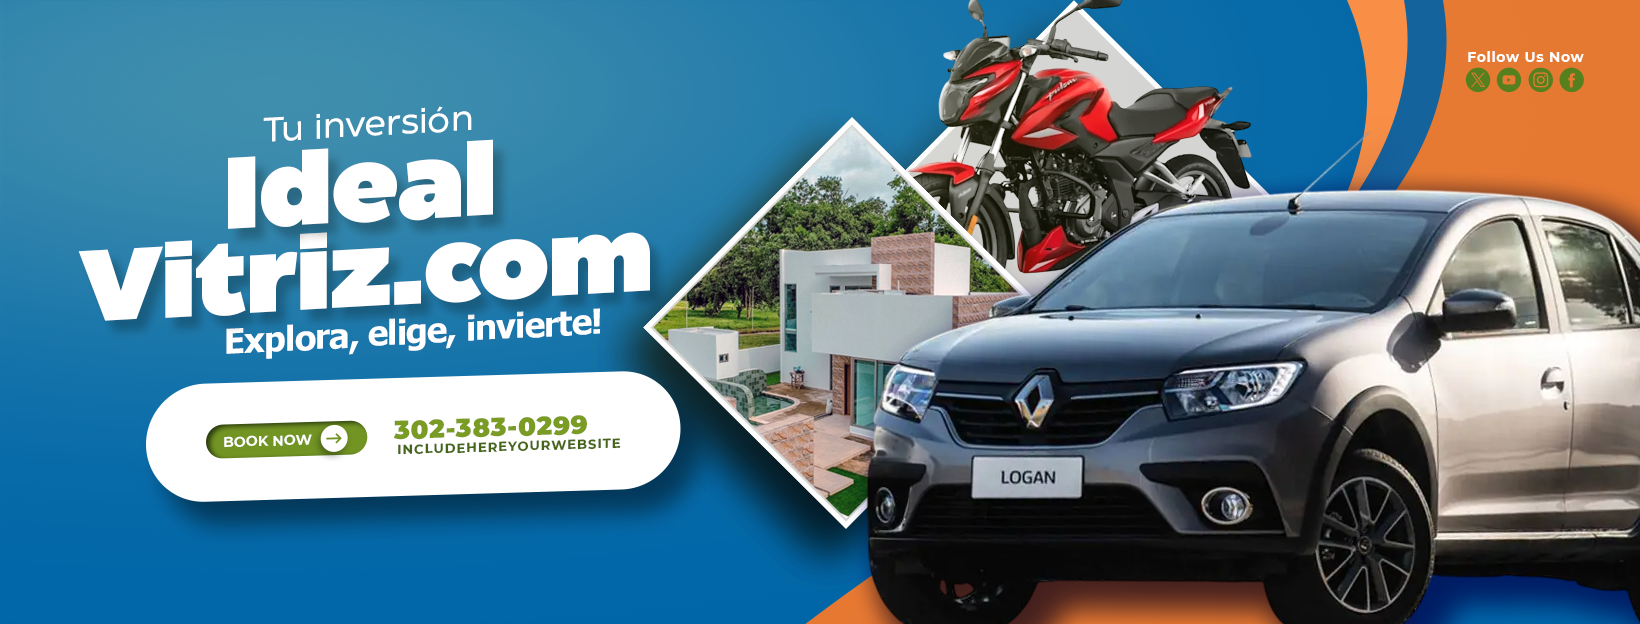
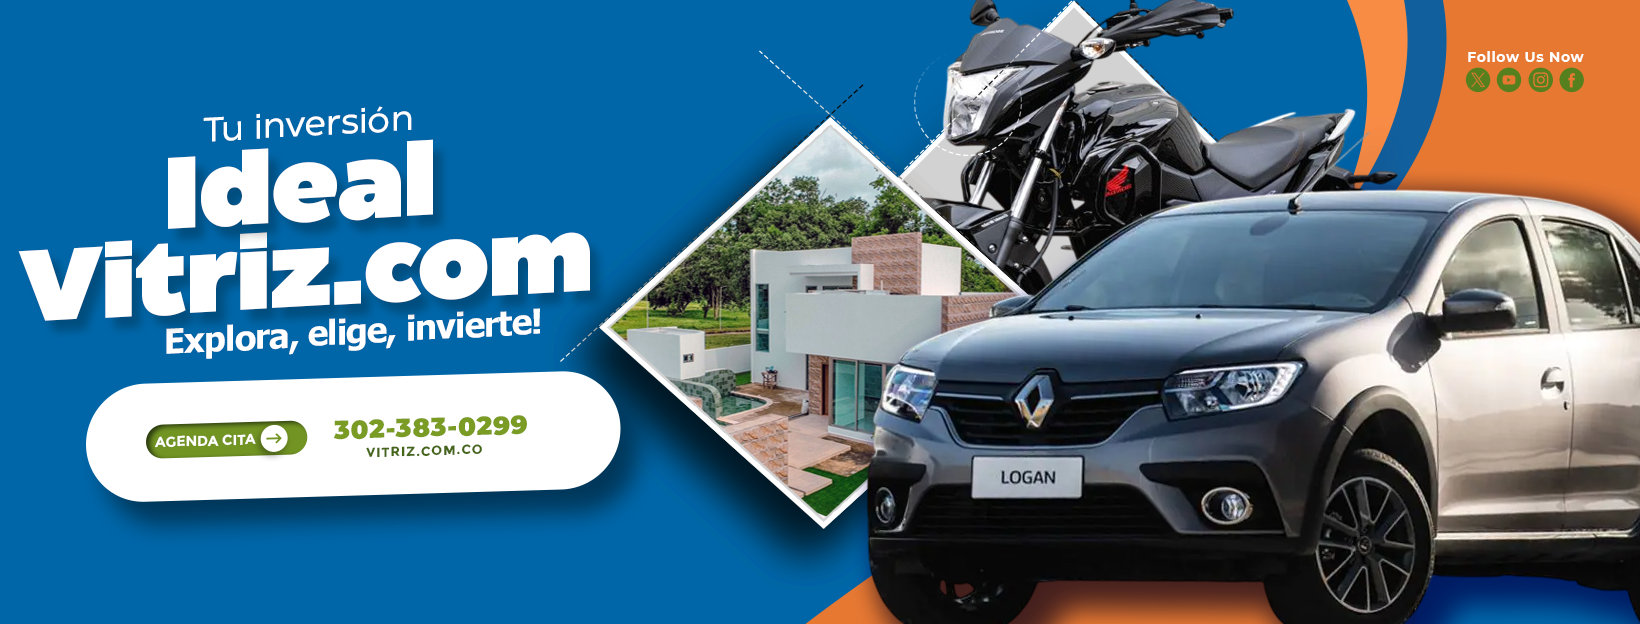
Actualizó marca Vitriz y Hero

diff --git a/index.html b/index.html
@@ -11,6 +11,11 @@
     crossorigin="anonymous"
     referrerpolicy="no-referrer"
     />
+    <link
+      href="https://fonts.googleapis.com/css2?family=Inter:wght@100;400;700;900&display=swap"
+      rel="stylesheet"
+    >
+
     <link rel="stylesheet" href="styles.css" />
     <link rel="stylesheet" href="responsive.css" />
     
@@ -42,14 +47,37 @@
       </div>
     </header>
 
-    <section class="hero-vendi">
+    <section class="hero-vitriz">
       <img src="img/banner1.png" alt="Banner vitriz" class="hero-img" />
+      <!-- Scroll cue -->
+      <a href="#vitrina" class="scroll-cue">
+        <span>Explora propiedades disponibles</span> 
+        <svg viewBox="0 0 24 24" xmlns="http://www.w3.org/2000/svg">
+          <!-- Rombo superior -->
+          <path
+            d="M 12 3 L 15 6 L 12 9 L 9 6 Z"
+            fill="orange"
+            fill-opacity="0.5"
+          />
+          
+          <!-- Flecha inferior, abrazando el rombo -->
+          <polyline
+            points="8 9 12 12 16 9"
+            style="fill:none;
+                  stroke:rgb(255, 165, 0);
+                  stroke-linecap:round;
+                  stroke-linejoin:round;
+                  stroke-width:3;"
+          />
+        </svg>
+      </a>       
+      
     </section>
 
     <div class="adsense-horizontal">
-      <div class="adsense-placeholder vendi-placeholder">
+      <div class="adsense-placeholder vitriz-placeholder">
         <div class="contenido-anuncio">
-          <img src="https://i.postimg.cc/XNPfvqVs/vendi-icono.png" alt="Marca Vendi" />
+          <img src="https://i.postimg.cc/XNPfvqVs/vitriz-icono.png" alt="Marca Vitriz" />
           <p>Espacio publicitario premium. Tu marca podría estar aquí.</p>
           <span class="sello-temporal">728×90 · Visibilidad máxima</span>
         </div>
@@ -108,7 +136,7 @@
         </div>
 
         <!-- 3⃣ Separador comunicativo: minitags -->
-        <section class="minitags-separador" aria-label="Guía editorial de confianza por parte de Vendi">
+        <section class="minitags-separador" aria-label="Guía editorial de confianza por parte de Vitriz">
           
           <h3 class="titulo-minitags">Antes de decidir, Vitriz te guía</h3>
           <div class="minitags-wrapper">                                 
@@ -685,7 +713,7 @@
             </form>
                 
             <div class="adsense-muestra">
-                <img src="https://i.postimg.cc/XNPfvqVs/vendi-icono.png" alt="Logo Vendi" />
+                <img src="https://i.postimg.cc/XNPfvqVs/vitriz-icono.png" alt="Logo Vitriz" />
                 <p>📣 Tu anuncio puede estar aquí</p>
                 <span class="etiqueta-anuncio">300×250 · Recuadro de muestra</span>
             </div>
@@ -693,7 +721,7 @@
           </aside>
 
           <!-- Vitrina derecha: miniaturas -->
-          <section class="vitrina-vendi">
+          <section id="vitrina" class="vitrina-vitriz">
               <div class="grid-miniaturas">
                 
                 <article class="miniatura"                
@@ -1440,7 +1468,7 @@
     </main>
 
     <footer class="footer">
-        © 2025 Vendi · contacto@vendihome.com
+        © 2025 Vitriz · contacto@vitrizhome.com
     </footer>
     <script type="module" src="main.js"></script>
     <script defer src="clampTitulo.js" ></script>

diff --git a/styles.css b/styles.css
@@ -12,6 +12,13 @@
   --radio: 0.75rem;
   --fuente: 'Poppins', sans-serif;
   --sidebar-offset: calc(100.98px + 0.5rem);
+  --acento: var(--verde);
+  --fuente: 'Inter', sans-serif;
+  --amarillo: #ca7c08;
+}
+
+html {
+  scroll-behavior: smooth;
 }
 
 /* 🧠 Estilos base del body */
@@ -122,12 +129,12 @@ body {
   color: #fff;
 }
 .cta-login i {
-  color: #e04502; /* Naranja cálido tipo Vendi */
+  color: #e04502; /* Naranja cálido tipo Vitriz */
   margin-right: 8px;
 }
 
 /* Hero */
-.hero-vendi {
+.hero-vitriz {
   position: relative;
   margin: 1rem;
   height: 560px;
@@ -147,6 +154,39 @@ body {
 }
 
 
+/* Scroll cue */
+.scroll-cue {
+  position: absolute;
+  left: 50%;
+  top: 80%; /* separación desde la base del hero */
+  transform: translateX(-190%);
+  display: flex;
+  flex-direction: column; /* texto arriba, flecha abajo */
+  align-items: center;
+  text-align: center;
+  color: var(--acento);
+  text-decoration: none;
+  font-family: var(--fuente);
+  font-size: 1rem;
+  font-weight: 500;
+  cursor: pointer;
+}
+
+/* SVG */
+.scroll-cue svg {
+  width: 3rem; /* un poco más grande */
+  height: auto;
+}
+
+/* Texto */
+.scroll-cue span {
+  font-family: var(--fuente);
+  font-size: 1rem;
+  font-weight: 700;
+  line-height: 1.2;
+  color: var(--blanco);
+}
+
 /* AdSense */
 
 .adsense-horizontal {
@@ -155,7 +195,7 @@ body {
   text-align: center;
 }
 
-.vendi-placeholder {
+.vitriz-placeholder {
   width: 728px;
   height: 90px;
   border: 2px dashed #ccc;
@@ -834,20 +874,20 @@ aside.sidebar-panel fieldset legend {
 
 
 /* === Vitrina principal de miniaturas === */
-.vitrina-vendi {
+.vitrina-vitriz {
   flex: 1;
   width: 100%;
   box-sizing: border-box;
 }
 
-.vitrina-vendi h2 {
+.vitrina-vitriz h2 {
   font-size: 1.8rem;
   font-weight: 600;
   margin-bottom: 1rem;
   color: var(--oscuro);
 }
 
-/* === Grid responsive de tarjetas Vendi === */
+/* === Grid responsive de tarjetas Vitriz === */
 .grid-miniaturas {
   display: grid;
   grid-template-columns: repeat(3, 1fr);

diff --git a/clampTitulo.js b/clampTitulo.js
@@ -18,7 +18,7 @@ document.querySelectorAll('.titulo').forEach(el => {
 document.addEventListener('DOMContentLoaded', () => {
   // 🔹 BLOQUE 1: Referencias iniciales al DOM (HTML)
   const form           = document.getElementById('filters-form');
-  const cards          = Array.from(document.querySelectorAll('.vitrina-vendi .miniatura'));
+  const cards          = Array.from(document.querySelectorAll('.vitrina-vitriz .miniatura'));
   const counter        = document.getElementById('result-count'); // Opcional
   const toggleBtn      = form.querySelector('.more-filters-toggle');
   const tooltip        = form.querySelector('.filter-tooltip');
@@ -167,7 +167,7 @@ function updateNoResultsMessage(show) {
     message.id = 'no-results-message';
     message.className = 'no-results hidden';
     message.textContent = 'No se encontraron resultados.';
-    document.querySelector('.vitrina-vendi')?.appendChild(message);
+    document.querySelector('.vitrina-vitriz')?.appendChild(message);
   }
   message.classList.toggle('hidden', !show);
 }
